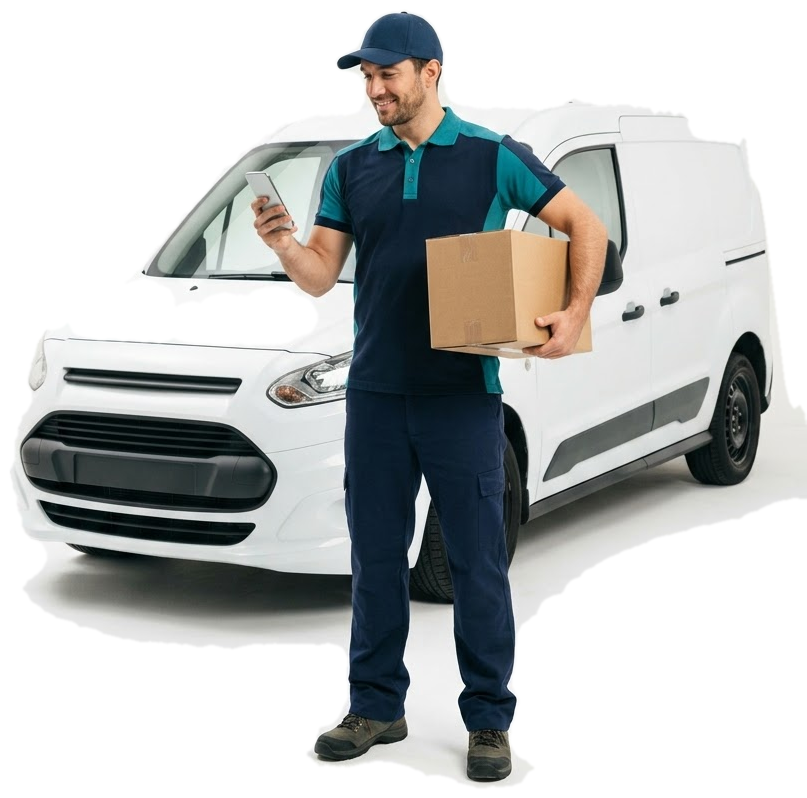
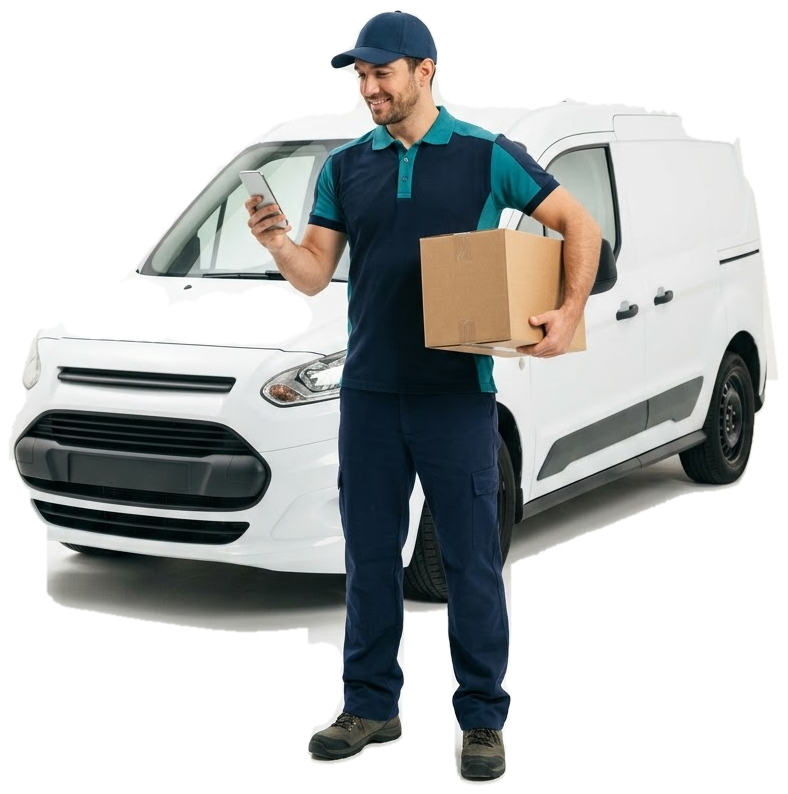
Clean up floor/shadow bleed in the Become a Driver photo cutout
The previous cutout kept a soft gray floor/shadow halo around the
tires and feet (the studio photo's ground contact shadow), which read
fine on plain white but visibly clashed with the page's teal-tinted
decorative backdrop. Detected the true ground-contact line per column
using the strongest edge evidence (tire rubber, shoe soles) and clipped
everything below it, removing the floor bleed while keeping the van
and driver intact. Updated the image container's aspect ratio to match
the re-cropped photo.

Claude-Session: https://claude.ai/code/session_01BYWxM8vrx9cyowNG7vrWEE

Changed region(s): [[0.0, 0.0, 1.0, 0.9975], [0.1827, 0.272, 0.3655, 0.3627], [0.335, 0.2418, 0.3655, 0.272]]

diff --git a/src/app/become-a-driver/driver-form.tsx b/src/app/become-a-driver/driver-form.tsx
@@ -136,7 +136,7 @@ export default function DriverForm() {
             <SlideEffect
               direction="left"
               isSpring={false}
-              className="relative w-full max-w-[19rem] mx-auto lg:max-w-[30rem] aspect-[807/798]"
+              className="relative w-full max-w-[19rem] mx-auto lg:max-w-[30rem] aspect-[788/794]"
             >
               {/* Decorative backdrop behind the illustration */}
               <div className="absolute -inset-8 md:-inset-12 -z-10 pointer-events-none" aria-hidden="true">
